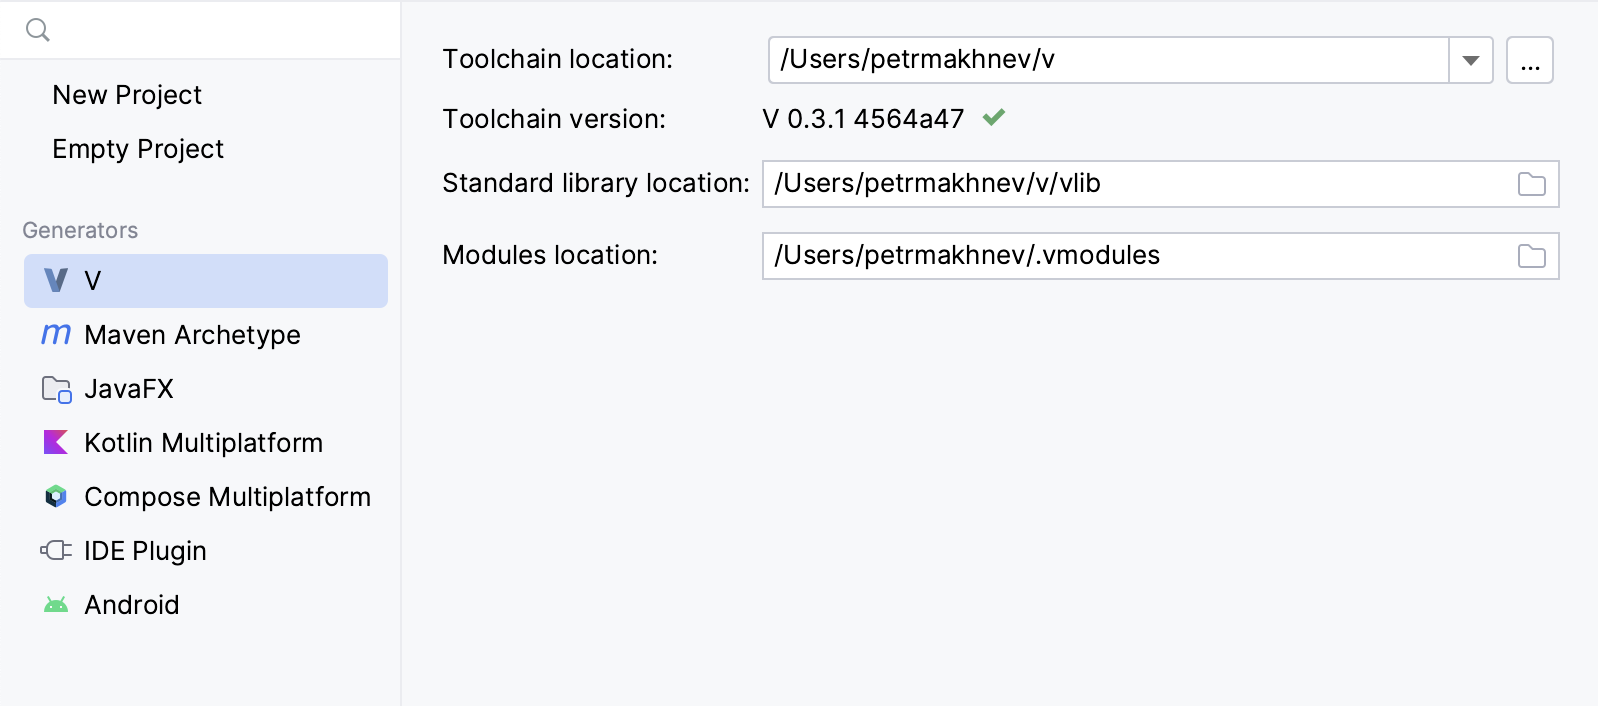
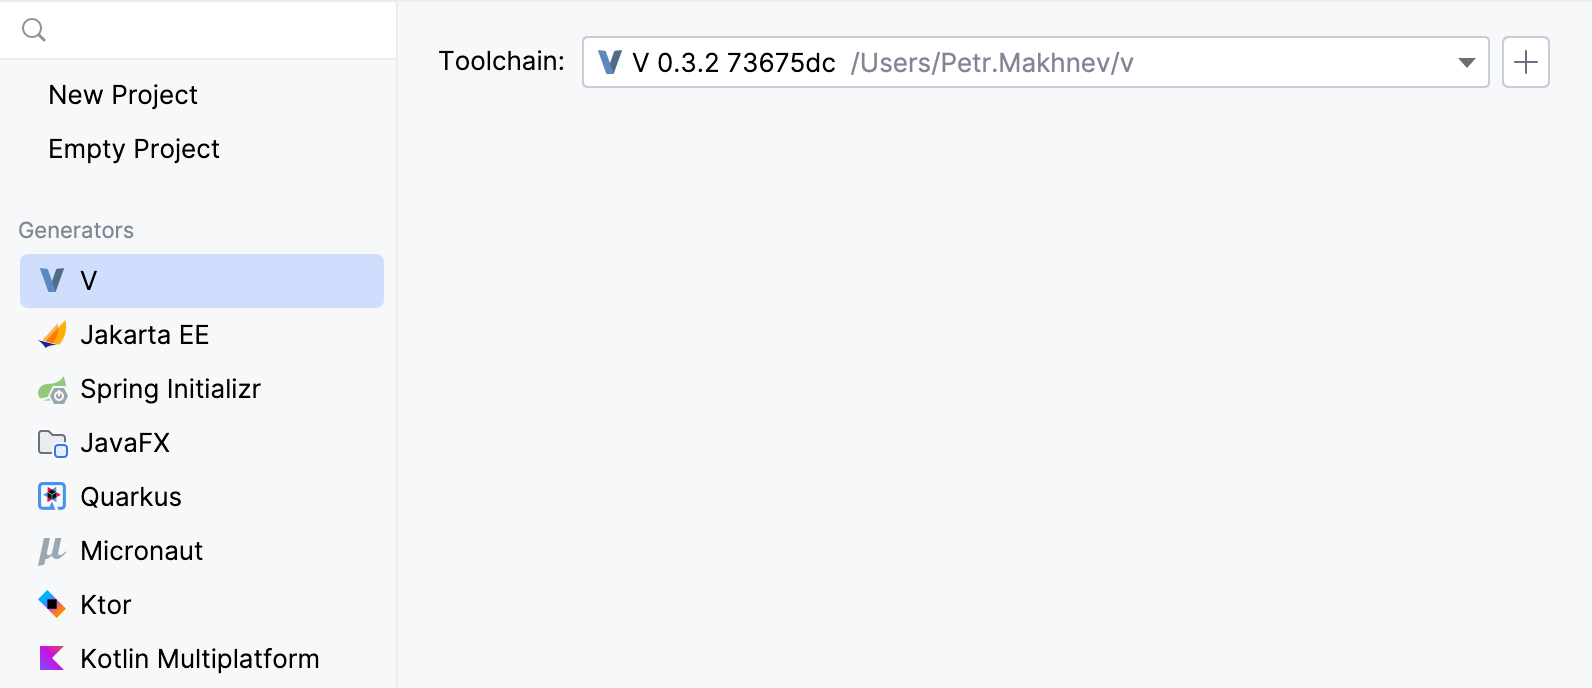
updated documentation with latest changes

diff --git a/src/topics/Quick-Start-Guide.md b/src/topics/Quick-Start-Guide.md
@@ -33,31 +33,34 @@ With the plugin's project wizard, you can quickly create new V project.
 
 1. Go to **File | New | Project** (**File | New Project**) or click **New project** on the welcome screen.
 2. Select **V** from the list in the left-hand pane.
-3. Specify the project name, location, and toolchain parameters:
+3. Specify the toolchain:
    ![](new-project.png){width=700 border-effect="line"}
-4. Click **Create** when ready, and the IDE will generate a ready-to-go stub project for you:
+4. Click **Next**.
+5. Specify the project name and location:
+   ![](new-project-2.png){width=700 border-effect="line"}
+6. Click **Create** when ready, and the IDE will generate a ready-to-go stub project for you:
    ![](new-project-created.png){width=700 border-effect="line"}
 
 ## Open existing project
 
 1. Go to **File | Open**) or click **Open** on the welcome screen.
 2. Select the root directory of the project and click **OK**.
-3. When you open an existing project, a notification will be shown that the toolchain is not configured:
+3. When you open an existing project, plugin automatically detects the toolchain and sets it up for you.
+4. If plugin can't detect the toolchain, a notification will be shown:
+   
+    ![](toolchain-not-configured.png){width=700 border-effect="line"}
 
-   ![](toolchain-not-configured.png){width=700 border-effect="line"}
-
-4. To set up the toolchain, click **Setup V toolchain**.
+5. To set up the toolchain, click **Setup V toolchain**.
 
    This will open the settings dialog:
 
    ![](project-settings.png){width=700 border-effect="line"}
 
-   If V was added to the **PATH** with the `v symlink` command, then the plugin will automatically set
-  all the necessary paths.
+   To add new toolchain, click ![add] and specify the path to V executable:
 
-   If the plugin could not find paths to the toolchain, select them manually.
-
-5. Click **Apply** to finish setup and wait until the IDE finishes indexing the standard library.
+   ![](new-toolchain.png){width=700 border-effect="line"}
+6. Click **Add** to add the toolchain.
+7. Click **OK** to finish setup and wait until the IDE finishes indexing the standard library.
 
 ## Clone a repository
 
@@ -67,7 +70,8 @@ With the plugin's project wizard, you can quickly create new V project.
 2. Provide the repository URL and specify the destination directory, then click **Clone**:
 
    ![](clone-repository.png){width=700 border-effect="line"}
-3. After the project opens, follow steps 4-6 from **Open existing project**.
+
+3. After the project opens, follow steps 3-6 from **Open existing project** if needed.
 
 
 ## Project settings
@@ -86,7 +90,7 @@ To run a selected target, do one of the following:
 
 - Select **Run** from the gutter menu next to the program entry point:
   
-   ![](run-gutter.png){width=700 border-effect="line"}
+   ![](run-gutter-icon.png){width=700 border-effect="line"}
 
 - Press <kbd>Ctrl/Command + Shift + R</kbd>
 

diff --git a/src/topics/Code-completion.md b/src/topics/Code-completion.md
@@ -9,3 +9,7 @@ Completion works for many places, so for example when you import a module, the I
 IntelliJ V takes care of the out-of-scope items when performing completion. This is useful for the cases like adding a module import during a function completion – the corresponding import item is inserted automatically:
 
 ![](completion.png){width=700 border-effect="line"}
+
+The plugin also provides completion for paths in string literals:
+
+![](path-completion.png){width=700 border-effect="line"}
